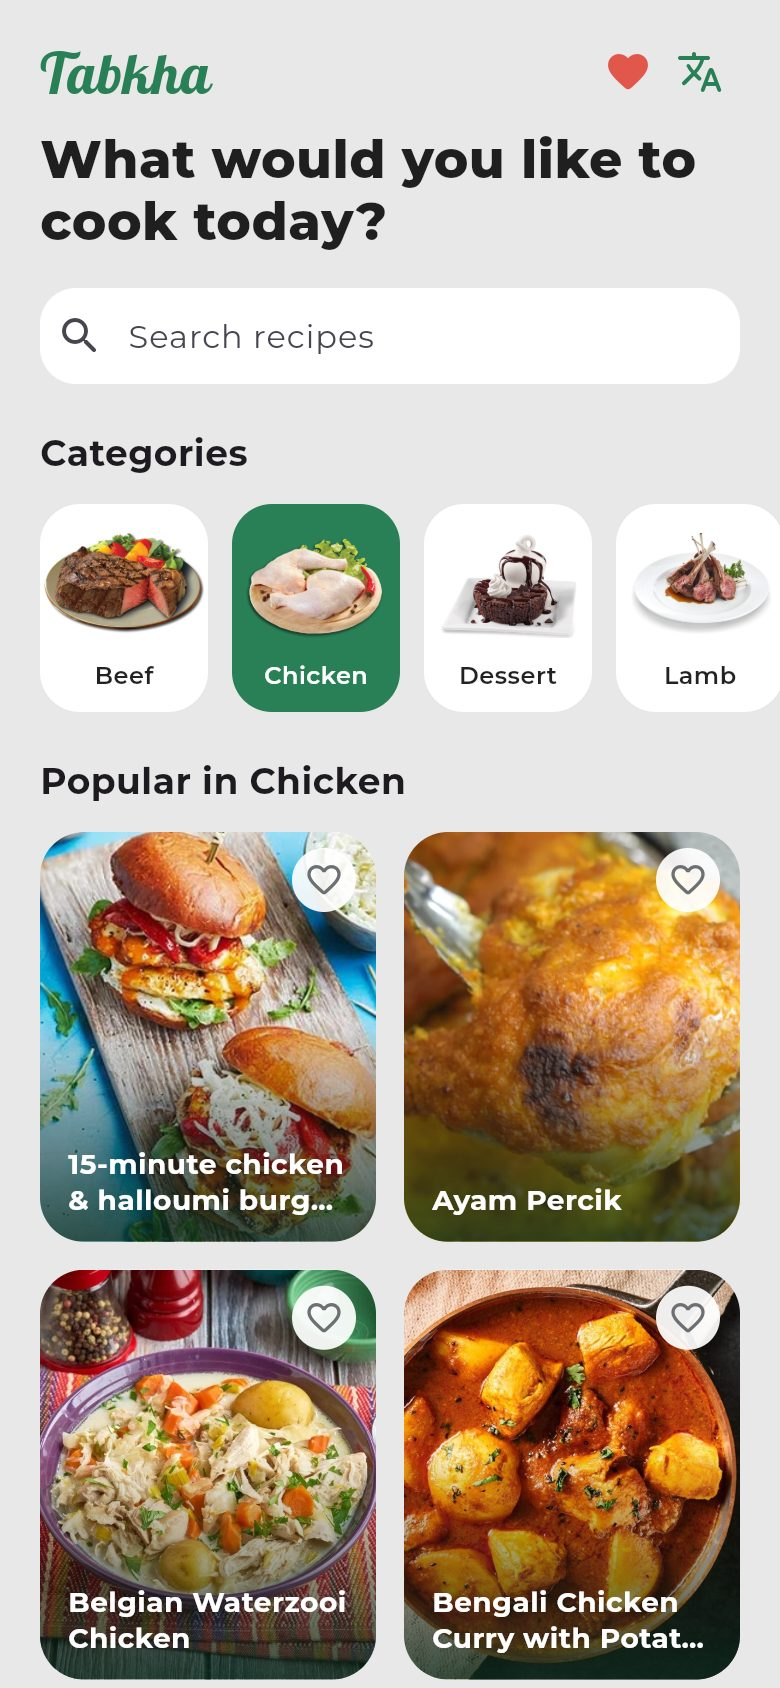
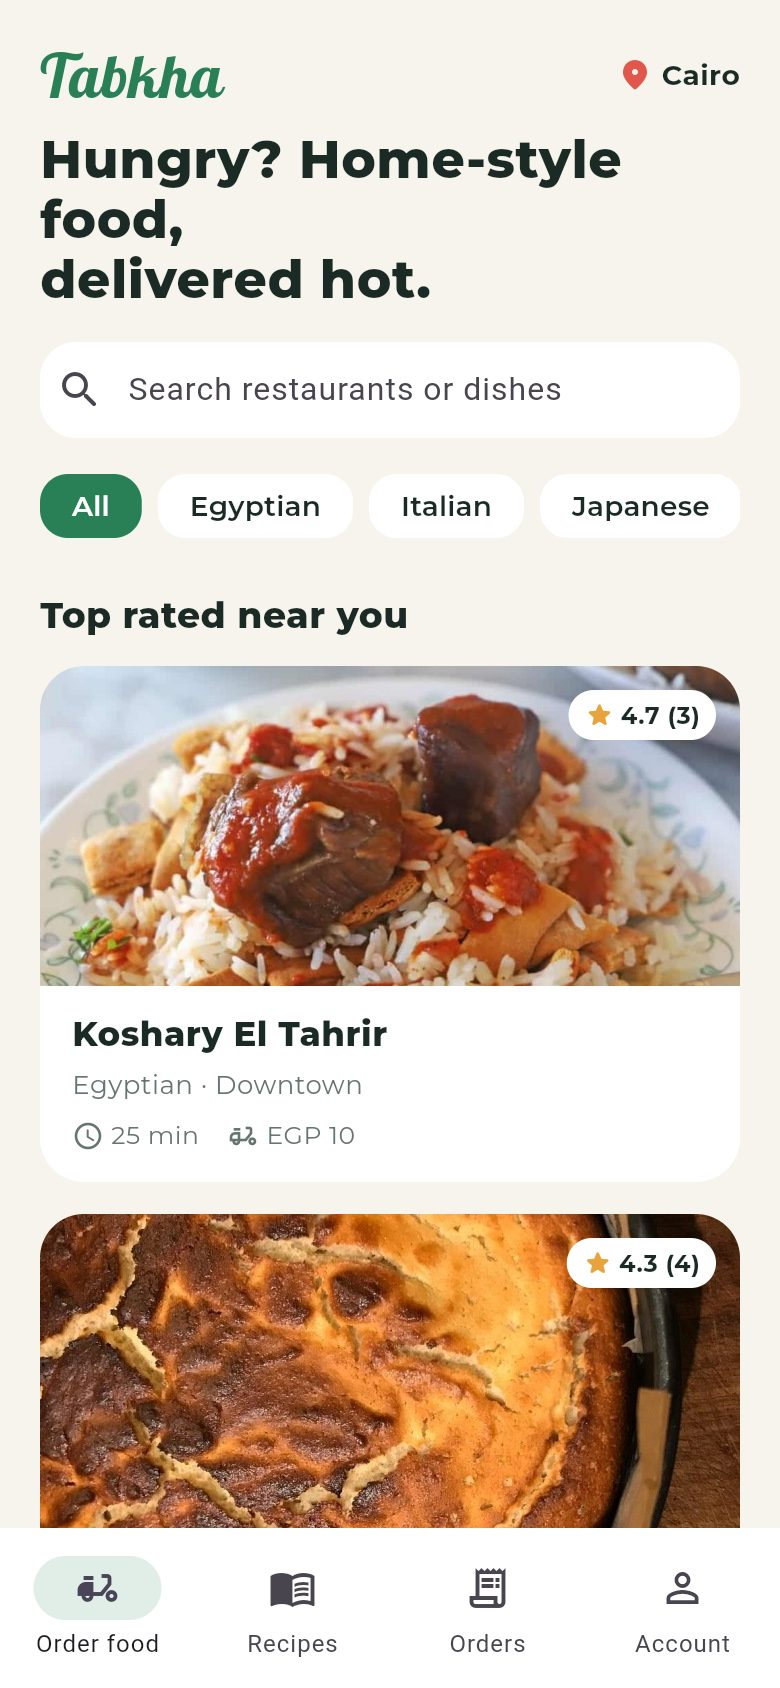
Show Tabkha's delivery app and admin consoles

diff --git a/src/content.ts b/src/content.ts
@@ -457,28 +457,31 @@ export const projects: Project[] = [
     name: "Tabkha",
     kind: "Mobile",
     context: "Personal · live demo",
-    tagline: "A bilingual cooking app: browse and search recipes, follow the steps and keep favourites.",
+    tagline: "A three-sided food app: customers order and cook, restaurants run their kitchen, admins run the marketplace.",
     problem:
-      "Most recipe apps ignore Arabic speakers, and switching language mid-session usually breaks layouts.",
+      "Home-style food ordering needs more than a menu: restaurants need to manage orders and stock, the platform needs to vet restaurants, and Arabic speakers need a first-class experience.",
     approach:
-      "Riverpod 3 providers over TheMealDB for categories, search and recipes, Firebase Auth for accounts with a guest mode, Hive for favourites, and right-to-left aware layouts with live language switching.",
+      "One Flutter codebase with role-based views. A Riverpod FoodStore holds restaurants, menus, orders and reviews behind a storage interface (Hive), and the admin consoles switch from a bottom bar on phones to a navigation-rail web dashboard on wide screens.",
     outcome:
-      "English and Arabic throughout, favourites that survive restarts, and an injectable API client tested against a mock HTTP client in CI.",
+      "Customers browse, order, track and review; restaurant admins accept, cook and deliver orders and manage the menu; super admins approve or suspend restaurants and watch sales. English and Arabic, 15 tests and CI.",
     highlights: [
-      "Search with debounce, category strip and a responsive recipe grid",
-      "Recipe details with ingredients, measures and numbered steps",
-      "Upgraded to current Flutter, Riverpod 3 and hive_ce",
+      "Order timeline from placed to delivered, with cancel and reviews",
+      "Restaurant console: orders board, menu availability, ratings",
+      "Platform console: approvals, sales ranking and all orders",
     ],
     stack: ["Flutter", "Riverpod", "Firebase Auth", "Hive", "REST", "i18n"],
     links: [
       { label: "Live demo", href: "https://eyadoraby.github.io/tabkha_app/?screen=home" },
+      { label: "Restaurant console", href: "https://eyadoraby.github.io/tabkha_app/?screen=admin" },
       { label: "Code", href: "https://github.com/EyadOraby/tabkha_app" },
     ],
     shots: [
-      phone("tabkha-home", "Tabkha home on a phone: search, recipe categories and a grid of chicken dishes", "jpg"),
-      phone("tabkha-recipe", "A Tabkha recipe with its photo, cuisine and ingredient list", "jpg"),
-      phone("tabkha-login", "Tabkha sign-in screen with a continue-as-guest option"),
-      desktop("tabkha-desktop", "Tabkha on the web with a six-column recipe grid", "jpg"),
+      phone("tabkha-home", "Tabkha: restaurants near you with ratings, cuisines and delivery times", "jpg"),
+      phone("tabkha-restaurant", "A restaurant page with its menu by section", "jpg"),
+      desktop("tabkha-admin", "Restaurant console on the web: KPIs and orders that need attention", "jpg"),
+      desktop("tabkha-super", "Platform console: live restaurants, approvals, orders and gross sales", "jpg"),
+      phone("tabkha-recipe", "A recipe with its ingredients and steps", "jpg"),
+      desktop("tabkha-desktop", "Tabkha recipes on the web", "jpg"),
     ],
     accent: "#2a8056",
   },

diff --git a/src/components/ShotCycler.tsx b/src/components/ShotCycler.tsx
@@ -13,7 +13,7 @@ const pick = (name: string) => shotsBySrc.get(`/shots/${name}.png`) ?? shotsBySr
 const pairs: [slug: string, wide: string, tall: string][] = [
   ["rsvp-studio", "rsvp-builder", "rsvp-mobile"],
   ["mini-shop", "shop-desktop", "shop-home"],
-  ["tabkha", "tabkha-desktop", "tabkha-home"],
+  ["tabkha", "tabkha-admin", "tabkha-home"],
   ["wedding-invitation", "rsvp-event-page", "rsvp-mobile-form"],
 ];
 
